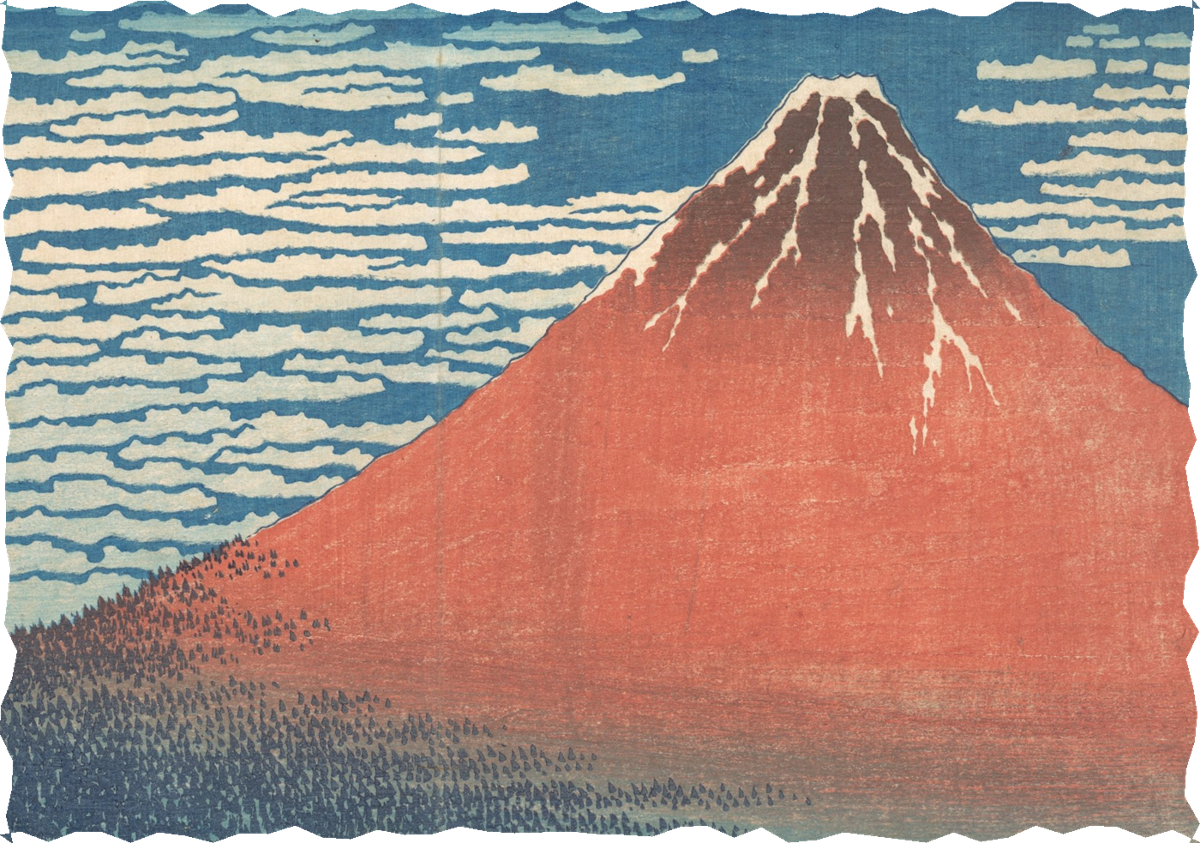
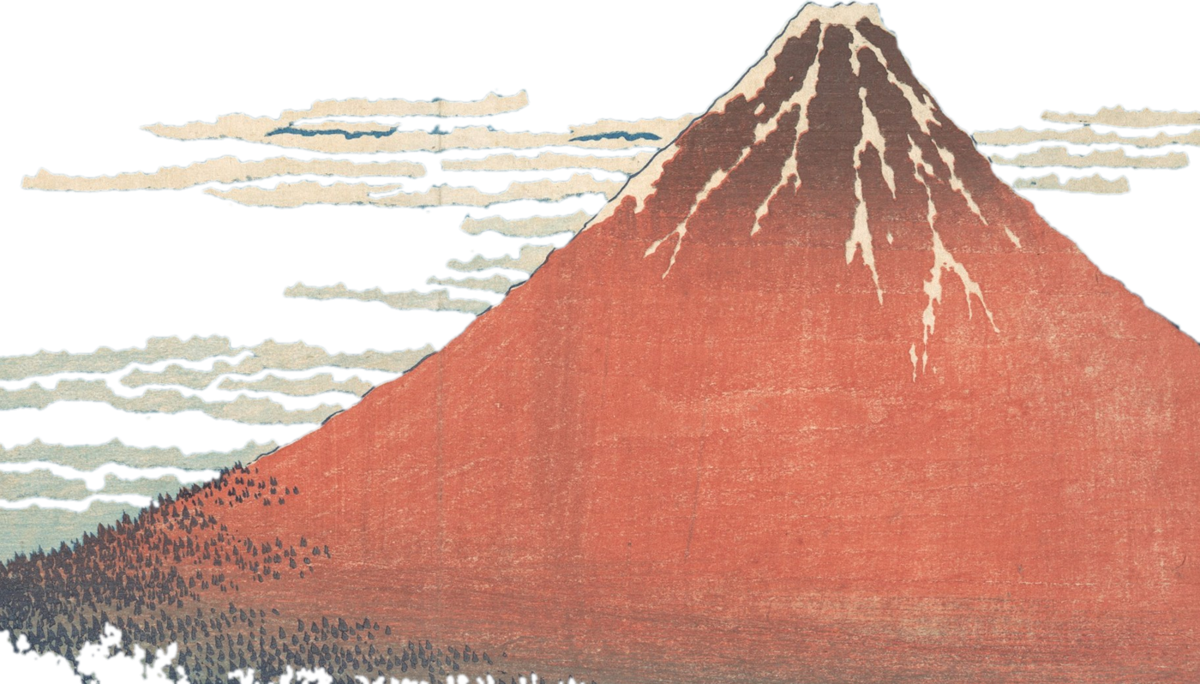
Ban torn-paper stickers; keep only outline cutouts
Claude-Session: https://claude.ai/code/session_01SC2TMbH5X6BkyS5D7YQ47J

diff --git a/src/yogen/materials.py b/src/yogen/materials.py
@@ -12,7 +12,6 @@
 from __future__ import annotations
 
 import io
-import random
 from pathlib import Path
 
 import numpy as np
@@ -200,33 +199,6 @@ def xerox(img: Image.Image, ink=(22, 19, 15), paper=None, thresh: float = .55, g
 def duotone(img: Image.Image, ink, paper) -> Image.Image:
     g = ImageOps.autocontrast(ImageOps.grayscale(img), cutoff=1)
     return ImageOps.colorize(g, black=ink, white=paper).convert("RGBA")
-
-
-def torn(img: Image.Image, amp: int = 10, seed: int = 3, paper=None, paper_w: int = 0) -> Image.Image:
-    """ちぎった縁。paper を指定すると、縁に紙の白い耳を残す。"""
-    r = random.Random(seed)
-    w, h = img.size
-    pts = []
-    step = max(8, min(w, h) // 30)
-    for x in range(0, w + step, step):
-        pts.append((min(x, w), r.uniform(0, amp)))
-    for y in range(0, h + step, step):
-        pts.append((w - r.uniform(0, amp), min(y, h)))
-    for x in range(w, -step, -step):
-        pts.append((max(x, 0), h - r.uniform(0, amp)))
-    for y in range(h, -step, -step):
-        pts.append((r.uniform(0, amp), max(y, 0)))
-    m = Image.new("L", (w, h), 0)
-    ImageDraw.Draw(m).polygon(pts, fill=255)
-    base = img.convert("RGBA")
-    if paper:
-        inner = m.filter(ImageFilter.MinFilter(paper_w * 2 + 1))
-        bg = Image.new("RGBA", (w, h), (*paper, 255))
-        bg.paste(base, (0, 0), inner)
-        base = bg
-    a = ImageChops.multiply(base.getchannel("A"), m)
-    base.putalpha(a)
-    return base
 
 
 def place(canvas: Image.Image, layer: Image.Image, xy, scale: float = 1.0, angle: float = 0, shadow: float = .45):

diff --git a/src/yogen/stickers.py b/src/yogen/stickers.py
@@ -1,7 +1,7 @@
 """切り貼り用の素材（ステッカー）。materials/stickers.yaml のレシピから作る。
 
 自作のアイコン（icons.py）の代わりに、本物のパブリックドメインの図版から切り出したものを貼る。
-  sticker(key)              原画の色のまま（method: cutout / key / torn）
+  sticker(key)              原画の色のまま（method: cutout / key / flood）
   sticker(key, ink=..., paper=...)  2色刷り
   halftone_sticker(key, ink)        色を付けない網点（透明の地にインク1色の点）。色面に重ねて馴染ませる
 """
@@ -12,7 +12,7 @@ from functools import lru_cache
 import yaml
 from PIL import Image
 
-from .materials import MAT_DIR, cutout, duotone, flood_cut, open_material, torn
+from .materials import MAT_DIR, cutout, duotone, flood_cut, open_material
 
 RECIPES = MAT_DIR / "stickers.yaml"
 
@@ -36,7 +36,7 @@ def _base(key: str, index: int) -> Image.Image:
         return flood_cut(im, bg=r.get("bg"), tol=r.get("tol", 40))
     if r["method"] == "key":
         return _key(im, r.get("tol", 38))
-    return torn(im, amp=max(8, min(im.size) // 45), seed=index + 3)
+    raise ValueError(f"未対応の method: {r['method']}（輪郭で抜く方式のみ）")
 
 
 def _key(im: Image.Image, tol: float) -> Image.Image:

diff --git a/tests/test_factory.py b/tests/test_factory.py
@@ -140,7 +140,7 @@ def test_render_silent(tmp_path):
 def test_material_processing():
     from PIL import ImageDraw
 
-    from yogen.materials import cutout, torn, xerox
+    from yogen.materials import cutout, flood_cut, xerox
 
     # 灰色のグラデーションの背景に置いた赤い物を切り抜けるか
     im = Image.new("RGB", (200, 200))
@@ -153,7 +153,10 @@ def test_material_processing():
     assert c.width < 120
     x = xerox(im, paper=(0, 255, 0))
     assert x.getpixel((100, 100))[:3] != (0, 255, 0)  # 赤い円はインクになる
-    assert torn(im, 8).getchannel("A").getpixel((0, 0)) == 0
+    # 外縁の地を抜き、中の物は残る（輪郭で抜く）
+    f = flood_cut(im, bg=[[200, 200, 200, 70]], tol=40)
+    assert f.getchannel("A").getpixel((f.width // 2, f.height // 2)) == 255
+    assert f.width < 120
 
 
 def test_ink_effects():
@@ -182,4 +185,4 @@ def test_sticker_recipes_are_valid():
     for key, items in recipes().items():
         for r in items:
             assert r["material"] in idx, (key, r["material"])  # 出典が記録されている
-            assert r["method"] in ("cutout", "key", "torn", "flood")
+            assert r["method"] in ("cutout", "key", "flood")

diff --git a/assets/stickers/README.md b/assets/stickers/README.md
@@ -5,5 +5,5 @@
 
 元の図版はすべて美術館のオープンアクセスのパブリックドメイン（CC0）。出典は `materials/index.yaml`。
 
-浮世絵・版画から切り出したもの（sagi 鷺娘、gaikotsu 団十郎の骸骨、shoki 鍾馗、koheiji 小平次、sarayashiki お菊、nami 神奈川沖浪裏）は
-`method: flood`（人物の輪郭で抜く）または `torn`（ちぎった紙片）。
+浮世絵・版画から切り出したもの（fuji 凱風快晴、sagi 鷺娘、gaikotsu 団十郎の骸骨、shoki 鍾馗）は `method: flood`（外縁の地の色をたどって人物・山を輪郭で抜く）。
+輪郭で抜いた素材だけを置く。ちぎった紙片や矩形の切り出しは使わない。

diff --git a/CLAUDE.md b/CLAUDE.md
@@ -31,4 +31,5 @@
   1〜3色をその回ごとに選ぶ（episode.yaml の `colors`）。藤黄は英字の題字の地にも使う。
 - 切り抜いた素材（`src/yogen/stickers.py`、レシピは `materials/stickers.yaml`）には色を付けない。
   網点（`halftone_sticker`）にして色面に重ねる。墨の地では胡粉の点、色の地では墨の点。主役の作品だけ原画の色。
+- 切り抜きは輪郭で抜いたものだけ。ちぎった紙片・矩形の切り出し（`torn` など）は禁止。輪郭が取れない図版は素材に載せない。
 - 参考資料（Pinterest のイメージボードなど）は `docs/references.md`。
